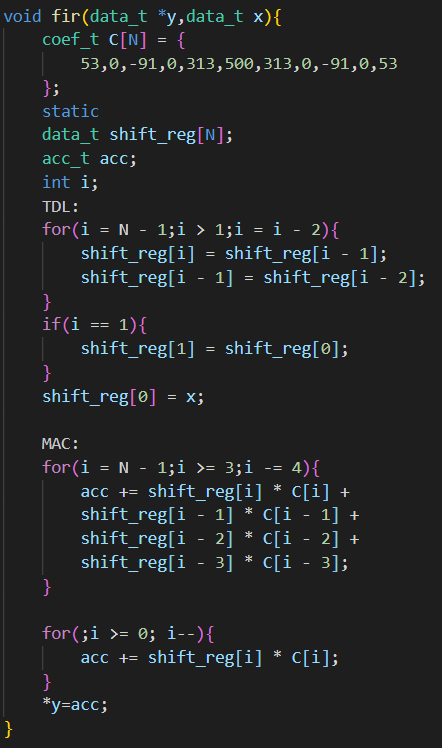
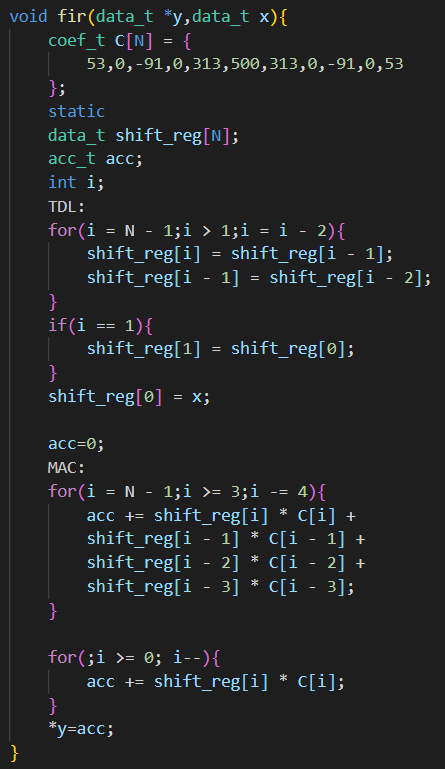
2020/08/29 周六

Changed region(s): [[0.0, 0.0, 0.9118, 1.0], [0.0882, 0.8302, 0.7647, 0.9532], [0.9118, 0.3382, 0.9706, 0.3997]]

diff --git a/Parallel_Programming_for_FPGAs/Chapter2_FIR/version7/host.cpp b/Parallel_Programming_for_FPGAs/Chapter2_FIR/version7/host.cpp
@@ -1,0 +1,44 @@
+//#include "fir.cpp"
+#include <iostream>
+using namespace std;
+void main(int argc,char* argv[]){
+    const int L=128;
+    int x[L]={54,56,23,3,26,0,4,22,27,27,16,29,45,56,38,10,  
+                37,25,33,4,13,55,38,62,11,9,13,35,56,23,50,2,   
+                35,18,17,7,9,25,46,24,15,52,28,29,14,49,51,17,
+                3,25,37,45,51,16,23,20,60,32,34,57,38,39,25,50,
+                9,27,58,35,52,7,35,8,16,56,45,38,2,23,27,5,
+                52,62,60,13,45,36,41,13,24,48,45,47,52,25,23,49,
+                57,24,35,43,49,47,3,23,43,59,64,0,13,20,48,58,
+                1,59,2,58,50,3,43,31,44,4,19,17,20,34,48,7,
+                };
+    int y[L]={2862,2968,-3695,-4937,16187,44255,49947,31133,12990,8272,8550,10661,20485,29325,25892,18960,
+                29851,48229,52336,36387,22914,28447,34168,25916,12170,18057,42109,57618,48688,20964,6797,15558,
+                37415,49393,41794,28850,22128,24210,25313,16359,7712,13556,30142,35459,29369,29342,37179,34936,
+                24237,27732,44780,46385,24948,8477,17699,41064,53561,43095,24296,20107,32219,44085,43899,42986,
+                44997,44077,41560,36264,31464,25259,31333,45710,50099,41579,26859,17359,14316,27011,47913,49737,
+                34409,18252,15778,16821,26355,47617,61783,51652,33605,33821,42415,36063,24591,25554,40738,53282,
+                54778,41670,29820,33024,46605,50143,37159,32279,45830,54117,39091,15400,18159,46228,66676,52119,
+                16032,6459,25563,49246,49014,30182,24489,34773,46148,39189,27483,30528,37618,36011,21180,10688,
+                };
+    int y_[L]={0};
+    int* py_=y_;
+    for(int i=0;i<L;++i){
+        fir(py_,x[i]);
+        ++py_;
+    }
+    int err_cnt=0;
+    for(int i=0;i<L;++i){
+        if(y[i]!=y_[i]){
+            cout<<"Fault at y["<<i<<"]: "<<y[i]<<"!="<<y_[i]<<endl;
+            ++err_cnt;
+        }else{
+            cout<<"y["<<i<<"]=="<<y[i]<<endl;
+        }
+    }
+    if(err_cnt==0){
+        cout<<"No fault occurs!"<<endl<<"Test passed."<<endl;
+    }else{
+        cout<<err_cnt<<"fault(s) occur!"<<endl<<"Test NOT passed!"<<endl;
+    }
+}

diff --git a/Parallel_Programming_for_FPGAs/Chapter2_FIR/version7/fir.cpp b/Parallel_Programming_for_FPGAs/Chapter2_FIR/version7/fir.cpp
@@ -16,6 +16,7 @@ void fir(data_t *y,data_t x){
     int i;
     TDL:
     for(i = N - 1;i > 0;i--){
+        #pragma HLS UNROLL factor=2
         shift_reg[i] = shift_reg[i - 1];
     }
     shift_reg[0] = x;
@@ -23,6 +24,7 @@ void fir(data_t *y,data_t x){
     acc = 0;
     MAC:
     for(i = N-1;i >= 0;i--){
+        #pragma HLS pipeline
         acc += shift_reg[i] * C[i];
     }
     * y = acc;

diff --git a/Parallel_Programming_for_FPGAs/Chapter2_FIR/version3/fir.cpp b/Parallel_Programming_for_FPGAs/Chapter2_FIR/version3/fir.cpp
@@ -24,6 +24,7 @@ void fir(data_t *y,data_t x){
     }
     shift_reg[0] = x;
 
+    acc=0;
     MAC:
     for(i = N - 1;i >= 3;i -= 4){
         acc += shift_reg[i] * C[i] +

diff --git a/Parallel_Programming_for_FPGAs/Chapter2_FIR/README.md b/Parallel_Programming_for_FPGAs/Chapter2_FIR/README.md
@@ -59,22 +59,41 @@ float和double的情况和加法一致。
 
 相比version1，version2所做的是循环拆分。原本使用一个for循环，循环内完成AB两件事。现在使用两个时间先后关系的for循环，一个专门用来完成A，一个专门用来完成B。
 
+关于version5，通过在指令中指定优化参数 skip_exit_check ，Vivado HLS将不会增加对循环最后部分迭代运算的检查。此指令的效果在version5中没有体现，因为此次设计中，循环并不是永远用不到最后部分的迭代，即循环次数N并不完全整除factor。（教程中并没有说明"skip_exit_check"应该加在哪里，上图可作为参考）
+
 据教程介绍，相比version2，version3所做的实际上是手动unroll，即通过修改设计的方式等效达到#pragma UNROLL的效果。这较为清晰地展现了UNROLL完成的操作，也能够让人据此分析出为什么HLS对for循环做UNROLL展开要求循环次数确定已知。而version4则是基于version2的使用HLS指令的循环展开（即UNROLL）。
 
 但是实验下来却不是这样。手动UNROLL和代码UNROLL的效果并不相同。推测的原因是，#pragma UNROLL可以对付本身就具有并行性的语句，例如TDL循环，但对于MAC循环中的累加操作则不具有自动优化的能力。
 
-|version3|version4|version6|
-|-|-|-|
-|<img src="../resources/2.19.png" style="zoom:67%" />|<img src="../resources/2.23.png" style="zoom:67%" />|<img src="../resources/2.33.png" style="zoom:67%" />|
-|<img src="../resources/2.28.png" style="zoom:67%" />|<img src="../resources/2.29.png" style="zoom:67%" />|<img src="../resources/2.34.png" style="zoom:67%" />|
-|<img src="../resources/2.22.png" style="zoom:67%" />|<img src="../resources/2.24.png" style="zoom:67%" />|<img src="../resources/2.35.png" style="zoom:67%" />|
+|version3|version4|version6|version7|
+|-|-|-|-|
+|<img src="../resources/2.19.png" style="zoom:67%" />|<img src="../resources/2.23.png" style="zoom:67%" />|<img src="../resources/2.33.png" style="zoom:67%" />|<img src="../resources/2.36.png" style="zoom:67%" />|
+|<img src="../resources/2.28.png" style="zoom:67%" />|<img src="../resources/2.29.png" style="zoom:67%" />|<img src="../resources/2.34.png" style="zoom:67%" />|<img src="../resources/2.37.png" style="zoom:67%" />|
+|<img src="../resources/2.22.png" style="zoom:67%" />|<img src="../resources/2.24.png" style="zoom:67%" />|<img src="../resources/2.35.png" style="zoom:67%" />|<img src="../resources/2.38.png" style="zoom:67%" />|
 
 修改后，version6的各项数据与version3完全一致。
 
-关于version5，通过在指令中指定优化参数 skip_exit_check ，Vivado HLS将不会增加对循环最后部分迭代运算的检查。此指令的效果在version5中没有体现，因为此次设计中，循环并不是永远用不到最后部分的迭代，即循环次数N并不完全整除factor。
+version7在MAC循环中添加了pipeline设计，比version3的优化方式效果更好。其生效的原因在于，
+```
+acc += shift_reg[i] * C[i];
+```
+本身就包含shift_reg_read、C_read、*、acc_write等多个步骤，详见Analysis图。（Analysis图在屏幕右上角切换，平常默认是Synthesis模式）
+<img src="../resources/2.39.png" style="zoom:67%" />
 
 <details>
-  <summary>一处原文刊误</summary>
-  在<a href="https://xupsh.gitbook.io/pp4fpgas-cn/zheng-wen/02-finite-impulse-response-filters">原文第二章 FIR滤波器</a>中，有一行重复内容，影响最终计算正确性。<br>
+  <summary>原文刊误</summary>
+  1，在<a href="https://xupsh.gitbook.io/pp4fpgas-cn/zheng-wen/02-finite-impulse-response-filters">原文第二章 FIR滤波器</a>中，有一行重复内容，影响最终计算正确性。<br>
   <img src="../resources/2.25.png" style="zoom:67%" />
+
+  2，在<a href="https://xupsh.gitbook.io/pp4fpgas-cn/zheng-wen/02-finite-impulse-response-filters">原文第二章 FIR滤波器</a>中，此段文字：
+
+  "为实现这一点，我们必须了解在执行算术运算时，位宽如何增加。考虑运算a = b + c，其中b为ap_uint 、c为ap_uint ，那么变量a的数据类型是什么?在这里我们可以做一个最坏情况的分析，假设a和b都是最大值$2^10=1024$。二者相加结果为a = 2024，可以表示为11位无符号数，即，ap_uint<11>。一般来说，在做加法时，运算结果要比两个加数中最大数值的位宽还要多一位。也就是说，当ap_uint b和ap_uint c相加时，a的数据类型为ap_uint，其中 z = max(x, y) + 1。这个结论同样适用于有符号数加法。
+
+  通过以上方法解决了acc数据类型设计的部分问题，但是我们还必须处理乘法运算。使用相同的术语，我们希望通过x和y的数据位宽来确定数值z的数据位宽(即，ad_int a , ap_int b,ap_int c)。对于运算a = b∗c，我们不再详细介绍,位宽的运算公式为z = x + y。"
+
+  有四处问题：
+  - 第一处是$2^10=1024$应为$2^{10}=1024$，应该是原作者不甚熟悉markdown语法中LaTeX数学公式的书写方式，忘了加中括号所致。原作者写的是"\$2^10=1024\$"，而应是"\$2^{10}=1024\$"。
+  - 第二处是二者相加结果应为a=2048。
+  - 第三处是"当ap_uint b和ap_uint c相加时，a的数据类型为ap_uint，其中 z = max(x, y) + 1"应为"当ap_uint\<x\> b和ap_uint\<y\> c相加时，a的数据类型为ap_uint\<z\>，其中 z = max(x, y) + 1"，成因也是原作者不清楚markdown书写方式中html内置标签的书写方式，忘了加转义符号所致。原作者写的是"ap_uint\<x\>"，而应是"ap_uint\\\<x\\\>"。在缺少转义符的情况下，原本为C++语法的关键字会被识别成html标签，从而不显示出来。
+  - 第四处是"(即，ad_int a , ap_int b,ap_int c)"应为"(即，ap_int\<x\> a , ap_int\<y\> b,ap_int\<z\> c)"，具体有把"ap_int"写成"ad_int"和缺少转义符导致\<x\>等内容不显示的问题。
 </details>
